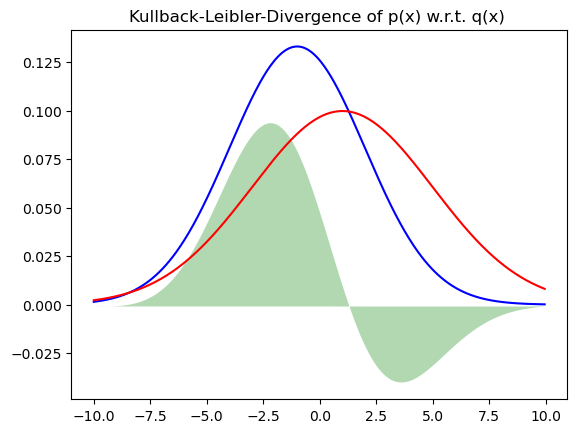
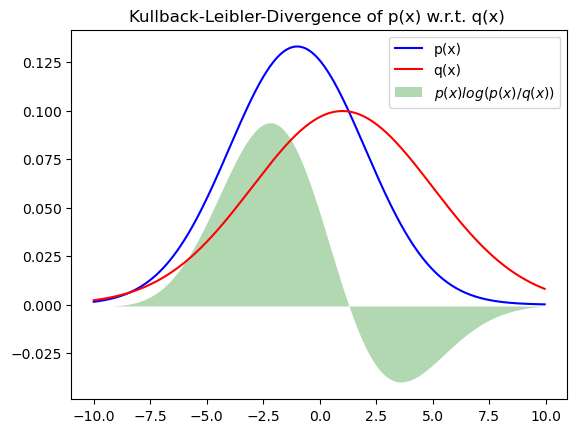
Update documentation

Changed region(s): [[0.6863, 0.1501, 0.9671, 0.2402], [0.7487, 0.0901, 0.8111, 0.1801], [0.6863, 0.0901, 0.7175, 0.1201]]

diff --git a/searchindex.js b/searchindex.js
@@ -1,1 +1,1 @@
-Search.setIndex({docnames:["BayesNetAsia","BayesNetLearningWithPandas","KullbackLeiblerDivergence","ProbabilityMultivariate","ProbabilityUnivariate","Thrombosis","estimateProbability","exampleProbEst","intro","parametricClassification1D"],envversion:{"sphinx.domains.c":2,"sphinx.domains.changeset":1,"sphinx.domains.citation":1,"sphinx.domains.cpp":5,"sphinx.domains.index":1,"sphinx.domains.javascript":2,"sphinx.domains.math":2,"sphinx.domains.python":3,"sphinx.domains.rst":2,"sphinx.domains.std":2,"sphinx.ext.intersphinx":1,sphinx:56},filenames:["BayesNetAsia.ipynb","BayesNetLearningWithPandas.ipynb","KullbackLeiblerDivergence.ipynb","ProbabilityMultivariate.ipynb","ProbabilityUnivariate.ipynb","Thrombosis.ipynb","estimateProbability.ipynb","exampleProbEst.ipynb","intro.md","parametricClassification1D.ipynb"],objects:{},objnames:{},objtypes:{},terms:{"0":[0,1,2,3,4,5,6,7,9],"00":[0,1,6,9],"000":[0,1,9],"0000":[0,9],"00000":0,"000000":[3,7],"00001":0,"000150":3,"0007735364983577491":[],"001":0,"0016687819527767985":1,"00640":[],"0073678034228635576":1,"01":[0,4],"0100":0,"01030":0,"013571":3,"01973086533146106":[],"02":[0,6],"02000":0,"02410":0,"02871":9,"03":[5,9],"0303":0,"0377117572316064":[],"04":[3,8,9],"041664":3,"0437":[],"0455":0,"04581":9,"047465":[],"05":[0,2,5,6,9],"0500":0,"055":0,"0550":0,"055235":3,"06":9,"07":[],"0700":0,"072645":9,"08":8,"09":3,"09278":9,"1":[0,1,2,3,4,5,6,7,9],"10":[0,1,2,3,4,6,7,9],"100":[0,1,3,9],"1000":[0,1],"10000":[0,1],"100000":9,"1000000":5,"10001":1,"1000x1000":[],"100j":6,"101":9,"102":9,"103":9,"1050":9,"1065":9,"10666":9,"11":[3,6,9],"110":6,"113":9,"115028222595494":1,"118":9,"1185":9,"12":[3,4,5,6,9],"120":[6,9],"125":[4,6],"127":9,"1289":1,"13":[6,9],"132":[],"1364291459312235":[],"13970":0,"14":[4,6,9],"140":6,"1456":[],"14595":9,"1480":9,"15":[6,9],"150":5,"1517":1,"15454":9,"1547":[],"15625":4,"157":0,"159":4,"1593911985090197":1,"16":[0,3,6,9],"160":6,"16558":9,"16583242":3,"16665":9,"166667":7,"1697":0,"17":[5,6,9],"170":6,"173":[6,9],"174":9,"17406":9,"17469":9,"175":[6,9],"176":9,"177":9,"178":[6,9],"17936":9,"18":[6,9],"180":6,"181":6,"182":6,"186":6,"1873702504149835":[],"188":6,"19":[1,6,9],"192":6,"19651":9,"1988":0,"198957":1,"19980":1,"1d":3,"1n":6,"2":[0,1,2,3,4,5,6,7,9],"20":[0,6,9],"200":[1,6],"20000":[0,1],"2021":[3,5],"2022":8,"20405":9,"205":6,"2078":[],"2083":[],"209881":3,"21":[3,6,9],"210":6,"210031":3,"21161":9,"2180":[],"219":3,"22":[3,6,9],"224":0,"225050":3,"23":9,"23132":9,"24":9,"2410":[],"242":3,"2468790525":[],"247934":[],"2491":3,"25":[4,6,9],"25000":9,"250000":7,"250044":9,"25335":9,"2545":0,"256":0,"2583":[],"259259":9,"25e":5,"26":9,"2649":[],"26697":9,"2685":1,"2694":1,"27":9,"28":[3,9],"28099":9,"281872":3,"29":9,"29000":9,"295593":3,"296296":9,"298":9,"2d":[3,6,9],"2f":[4,6,9],"2n":6,"3":[0,1,2,3,4,5,6,7,9],"30":[3,4,6,9],"3000":0,"30000":[0,1],"3072":1,"31415":9,"3159":9,"3163":9,"318":9,"32":[5,9],"320":9,"32590":0,"328485003314561":1,"33298":9,"333":7,"333333":7,"3480507":3,"35":[4,9],"35400":0,"3543":1,"356701":1,"3591":1,"36":[0,3,9],"3624":[],"3630":9,"36797":9,"37":9,"37016":9,"3723":1,"38":9,"38898497243":[],"39":9,"391388":[],"3923805391":[],"39350":[],"3958":1,"3964":1,"3979":1,"3d":[3,6],"3f":[4,9],"4":[0,1,2,4,5,6,7,9],"40":[6,9],"40000":0,"405":9,"41":9,"41270":[],"415079":[],"4163":[],"4203":9,"4212649082":6,"42220":[],"42385":9,"4250":[],"43":9,"43080":[],"4360":0,"443609":9,"444444":9,"44612":9,"44920":1,"45":[4,9],"452862":3,"4545":1,"459373":1,"46":9,"4667":1,"4674351":3,"47584":1,"4770":9,"48":9,"480":[],"48070":1,"49":9,"494440511346402":[],"49520":1,"4f":9,"5":[0,1,3,4,5,6,7,9],"50":[0,1,5,6,7,9],"5000":0,"50000":0,"500000":7,"5048":1,"5099":9,"519":1,"5193":1,"52":[5,9],"52416":1,"53":9,"53330":1,"54":6,"540627":1,"54550":1,"5508":1,"56":9,"560":9,"56231":9,"5640":0,"5692":[],"57":6,"57500":[],"5778":[],"5797":9,"58":6,"583":3,"58370":[],"584921":[],"5873":[],"59":9,"595":9,"597607609165015":[],"59999":[],"6":[0,3,4,5,6,7,9],"60":[5,6,9],"6000":0,"60210":1,"60360":1,"60420":1,"6065":[],"608612":[],"609":[],"61":9,"62":9,"6244355861046378":2,"625":9,"62770":1,"62772":1,"63000":9,"6370":9,"63760":[],"64":9,"64090":1,"643299":1,"64526":9,"64570":1,"6460":0,"65":[5,9],"65124":9,"66035":9,"66667":9,"67":[6,9],"67334":9,"68":[6,9],"680":9,"682":9,"6837":9,"6841":9,"68916612484":1,"69":9,"69000":9,"69062":9,"690925":3,"7":[0,4,5,6,7,9],"70":[6,9],"7000":[0,1],"70000":0,"702":9,"704407":3,"71":[6,9],"72":6,"72293":9,"73":3,"73060":1,"73150":1,"734734":3,"735":9,"7377899551333961":[],"74":9,"740":9,"74170":[],"75":[6,7,9],"750":9,"7509918":3,"752066":[],"75900":[],"76":[6,9],"763":1,"77":6,"77017":9,"7717255411247985":1,"778":9,"77884":9,"78":9,"79170":[],"79220":[],"7d":9,"8":[0,1,4,6,7,9],"80":[6,9],"8000":[0,1],"8002":1,"801043":1,"81":9,"81069":9,"819":4,"82":9,"835":9,"840":9,"85":9,"86":[6,9],"87":[6,9],"88625":9,"89":6,"9":[0,6,7,9],"90":6,"9000":[0,1],"90000":[0,1],"906":1,"91":9,"92":9,"923071875160725":1,"93":[6,9],"93000":0,"933":3,"936":1,"93726":9,"9450":0,"947":[],"95":[0,9],"95000":0,"952535":[],"95630":[],"96":9,"960x800":6,"9663492063492063":9,"977":4,"98":[0,6],"9800":0,"9875":9,"99":0,"99000":0,"9936":[],"997":4,"998":1,"9tltm6l520v0stj3qjlc5v9w0000gn":6,"case":[0,2,3,4,5,6,8,9],"class":[0,1,9],"default":0,"do":[0,4,5],"final":3,"float":9,"function":[0,1,2,3,6,9],"gau\u00dfverteilung":6,"import":[0,1,2,3,4,5,6,7,8,9],"int":9,"long":5,"new":1,"return":[0,3,9],"short":[0,3,4,5,6],"true":[0,1,3,4,5,6,9],"var":6,"while":[0,4],A:[0,3,4,5,9],And:[0,1,5,6],As:[0,1,3,4,5],At:0,But:4,By:[1,3,6],For:[1,2,3,4,6,7,9],If:[3,4,5,6,9],In:[0,1,2,3,4,5,6,7,8,9],Is:5,It:[0,3,5,9],Of:9,On:[3,5],One:6,Or:5,Such:4,The:[0,1,2,3,4,5,6,7,8,9],Then:[0,5,6,9],There:[1,5],These:[3,6,8],To:0,_:3,a01:0,ab:2,about:0,abov:[0,1,3,4,5,7,9],absenc:0,absolut:[3,4,5,6],acc:9,accord:[1,3],accumul:5,accuracytrain:9,actual:[0,3,5,9],acycl:0,ad:0,add:[0,7],add_edg:5,add_nod:5,add_scatt:[],add_subplot:3,addarc:0,addit:3,addition:0,addjointtarget:0,adult:6,affect:5,afford:5,after:[1,4,5],after_pyagrum_learn:1,after_pyagrum_learning_with_laplac:1,ag:[5,6],again:[3,9],agevacthromb2:5,agevacthromb:5,agg:9,agrum:0,algorithm:[0,1,8],all:[2,3,4,5,6,7,9],allow:8,almost:[0,5],along:6,alpha:[2,4,6],alreadi:[3,4,5],also:[1,3,4,5,6,7,9],alwai:4,among:[3,5],amount:3,an:[0,2,3,4,6,7,8],anaconda3:9,analysi:9,ani:[3,4,5],annual:9,annualincom:9,annualincomelist:9,anoth:[1,3,4],answer:[3,4,5,7],antialias:[3,6],aposteriori:9,aposteriorimod:9,append:[1,6,9],appli:[0,3,4,6,7,8,9],applic:0,approach:1,approxim:0,apriori:9,ar:[0,1,2,3,4,5,6,7,8,9],arang:[2,4,6],arbitrari:[0,3,9],arc:1,area:[2,4],argmax:9,argmax_:9,argument:[6,7],arrai:[1,3,4,6,9],artif:8,artifici:[3,6,8],asia:[0,1],ask:3,assign:[0,4],associ:[0,4,5],assum:[3,6,9],astrazeneca:3,asymmetr:2,atleast_2d:9,attribut:9,author:8,autodf:9,autokunden:9,avail:[3,6],availablebnext:0,averag:5,ax:[2,3,6],axi:[2,3,4,6],axvlin:9,b:[0,1,2,3,4,5,7],back:3,background:3,backgroundcolor:6,backoffic:7,ball:3,bay:[1,3,5,8],bayesian:[3,5,8],bayesnet:0,becaus:[5,9],been:[0,1,3,4,5,9],befor:[1,5],before_learn:1,begin:[3,4,6],being:3,belief:0,belong:7,below:[0,1,2,3,4,5,6,7,8,9],ben18785:4,bernoulli:9,besonder:5,better:[3,6],between:[0,1,3,4,5,6],bhattacharya:1,bif:[0,1],bifxml:0,binari:4,biontech:3,birth:5,bn2:[0,1],bn3:1,bn4:1,bn:0,bncpt:1,bnlearn:1,bnlearner:1,bnsecond:1,bnx:1,boldsymbol:[3,6],book:9,both:[0,1,3,5,6],bought:9,breath:0,bridg:8,bronchiti:0,build:8,bunch:4,busi:0,bx01:0,c:[0,1,4,5,6,9],c_:9,c_i:9,c_k:9,calcul:[0,1,2,3,4,6,7,9],call:[0,3,4,6,7],can:[0,1,2,3,4,5,6,7,8,9],cancer:[0,1],cannot:5,capabl:[0,1,8],caption:1,car:9,carri:5,categori:9,causal:8,causat:[0,5],cc:3,cccc:[3,6],cdf:[3,4],cdot:[2,3,4,6,9],cebral:5,cell:[0,1,9],central:3,cerebr:5,certain:[0,5,6],certainli:3,chain:[3,8],chanc:0,chemic:9,chest:0,child:6,children:6,claim:8,classif:8,classifi:8,classstat:9,clear:5,clf:9,close:1,cm:[3,6],cmap:[3,6],code:[0,1,9],coeffici:6,coin:4,collect:3,color:[3,4,6,9],column:[1,3,6,7,9],columnwis:6,comb:4,combin:7,come:4,comma:3,common:[3,6],compani:7,compar:[1,4],comparison:5,complet:[0,3,7],complex:9,compon:6,comput:[0,1],computecptfromdf:1,concept:3,conclud:5,concret:[6,8,9],condit:[0,1,4,5,7,8],configur:1,confus:9,confusion_matrix:9,connect:0,consid:[3,4,6,8],consist:6,constitu:9,constitut:[8,9],construct:[0,8],consum:5,contain:[0,3,7,9],content:8,context:[3,5,9],continu:[2,8],contour:6,contrast:[1,4,8],control:5,copi:3,corr:6,correctclassif:9,correl:[0,6],correspond:[3,4,6,8],correspondingli:3,count:[1,6,9],cov:6,covari:[3,6],covid:1,cpt:0,creat:7,cross_val_scor:9,crosstab:[1,6,7],crucial:9,cstride:[3,6],csv:9,cultivar:9,cumul:3,cup:3,current:5,curv:[2,4],custom:9,custon:9,cv:9,d1:3,d2:3,d:[0,1,3,5,6,7,9],d_:2,d_condprob:1,d_count:1,daft:5,dag:[0,1],dash:9,data:[0,3,6,7,8],datadict:7,datafram:[3,6,7],datamatrix:6,datasampl:6,dataset:[5,6,8,9],dd:3,ddot:[3,6],de:6,decreas:[1,4],dedic:0,deduc:3,def:[1,3],defici:5,defin:[2,3,4,6,7,9],definit:6,demonstr:[0,1,4,7,8,9],denomin:3,denot:[3,4,6],densiti:[2,3,6],dentot:4,depend:[0,1,3,4,5],depict:[0,5],deprec:9,deriv:[6,7,9],describ:[0,1,3,4,6,7,9],descript:4,design:[1,5,7],determin:[1,3,4,6,7,9],dev:6,develop:9,deviat:[4,6,9],df1:3,df:1,diagnost:8,diagon:6,dice:[3,4],dictionari:0,die:[4,5],differ:[0,1,2,3,4,9],dim:0,dimenension:9,dimension:[3,6,9],dimensional:6,direct:[0,5],discret:[0,2,3,8,9],discretizedvari:0,discrimin:0,discuss:0,disjoint:3,disk:1,displai:[0,3],dist1:2,dist2:2,distanc:[1,2],distinguish:[0,6],distrib:4,distribut:[0,1,2,3,5,7,8,9],divid:[3,6,9],divis:7,document:8,doe:[0,1,8,9],domain:[0,1],domains:[0,1],don:5,doubl:0,dpi:[5,6],dr:8,draft:[],draw:[3,4],drawn:3,dsl:0,dt:4,due:0,dx:[2,4],dy:3,dyspnoa:1,dyspnoea:0,e01:0,e:[0,1,3,4,6,9],each:[0,1,3,4,5,6,7,9],easi:6,easili:[0,3,9],eb01:[0,1],ec:5,edg:5,edgecolor:6,effect:1,either:[0,3,8],element:[6,9],els:1,employe:7,employess:7,empti:0,end:[3,4,5,6,9],engin:0,enter:0,entir:[4,6],entireti:8,entri:[3,9],enumer:9,env:9,equal:4,equat:3,erf:4,error:4,errorpq:1,errorqp:1,est:6,est_cov:6,est_mean:6,estim:[3,8,9],euro:9,ev:0,evalu:9,even:5,event:[3,4],everi:[1,4],everyth:1,everywher:4,evid:3,exact:0,exactbndist:1,exactli:4,exampl:[0,1,4,6,8,9],exist:[1,5,9],exp:[2,3,4,6,9],expect:[1,5],experi:[3,4,5],expert:[0,1,8],explain:3,express:3,extend:[3,5,8],extrapol:5,f:[3,7],f_x:4,facecolor:6,factor:[0,3],factoris:[3,9],fall:4,fals:[1,6,9],famdata:6,famili:6,famou:0,far:6,fashion:0,featur:[0,9],femal:7,few:9,fiction:1,field:8,fig:[1,2,3,6],figsiz:[1,3,4,6,9],figur:[1,3,4,6,9],file:9,filenam:[],fill:2,fill_between:[4,6],fillwith:0,find:[3,5],finit:[0,4],first:[1,2,3,4,5,6,7,9],fit:9,fix:3,flatten:3,float32:1,folder:6,follow:[0,1,2,3,4,5,6,7,9],fontsiz:6,foral:[3,4,6],form:[3,5],format:[0,1,4,6],former:9,found:9,frac:[2,3,4,6,9],framework:8,frendli:0,frequenc:[6,7],frequent:5,from:[0,2,3,4,5,6,8,9],fundament:8,futurewarn:9,g0:1,g1:1,g:[0,1,2,3,4,6],gauss2d:3,gauss:6,gaussian:[2,3,6,9],gaussiannb:9,gaussion:6,gca:6,gener:[0,3,9],generatecpt:1,generatecsv:1,geq4:7,geq:[5,7],german:5,germani:3,get:[0,1,3,4,5],gibb:0,give:3,given:[0,1,3,4,6,7,9],gnb:[0,1],goal:8,got:[3,6],govern:5,graph:0,graphic:0,greatest:4,green:[2,3],grid:[4,6,9],groupbi:9,grown:9,gt:[0,1],gum:[0,1],h:[3,6,7],ha:[0,1,3,4,5,6,7,9],habe:4,had:5,hand:[3,4,5],have:[0,1,3,5,6,9],he:[0,9],head:1,header:9,height:6,helling:1,help:[0,6],hemorrhag:5,henc:[4,5,9],here:[0,1,3,4,6,8,9],hi:9,hide:[],high:7,higher:[1,5,6],highlight_margin:3,hline:4,hold:3,horizont:4,how:[0,1,2,3,4,5,6,8,9],howev:[1,3,4,5,9],http:[4,6],hypergraph:0,i:[0,1,2,3,4,5,6,9],i_1:[3,6,9],i_2:[3,6],i_3:3,i_4:3,i_:3,i_j:3,i_k:3,i_n:[3,6,9],i_z:3,id:[0,1,9],ident:1,identifi:0,idfromnam:1,ie:0,ii:6,ij:6,iloc:3,imagin:0,impact:5,implement:[0,1,9],impli:5,in1:9,inc:9,incom:[7,9],incomplet:0,increas:[0,1,5],independ:[0,4,5,6,9],index:[3,7,9],index_col:[3,9],indic:9,infer:[3,4,5,8],influenc:[0,3,5],infti:[2,3,4,6],inhabit:5,init_notebook_mod:[],initi:[0,1],inlin:1,input:9,instal:5,instanc:[0,1,6,9],instead:[0,3,7,9],institut:8,int_:[2,3,4],integ:7,integr:[1,3,4,8],intellig:[3,6,8],interest:[3,9],interpret:4,introduc:[3,8],introduct:8,invers:3,inwork:6,io:4,iplot:[],ipykernel_24047:[],ipykernel_24066:6,ipython:0,itali:9,its:[0,4,8],itself:1,j:[3,6,9],jensen:1,jet:6,jj:6,johann:[8,9],join:[0,1],joint:[0,1,6,7,8,9],jointli:[3,6],jointposterior:0,journal:0,jpt:1,junction:0,jupyterbook:8,just:[1,3,4,6,9],k:[3,4,6],keyword:6,kg:6,kl:2,klpq:1,klqp:1,klsing:2,know:[0,3,5],knowledg:[0,1,3,8],known:[0,1,3,5,6,9],knwoledg:8,kullback:1,l:[0,1,7],label:[0,4,6],labelizedvari:0,lai:3,lambda:9,laplac:1,larg:[4,5],larger:4,last:[3,5,6,8],latter:0,lauritzen:0,law:[3,8],lazypropag:0,lbrace:4,ldot:[3,4,6,9],learn:[3,5,6,8],learnedbn:1,learnparamet:1,least:7,left:[2,3,4,6,9],legend:[4,6,9],leibler:1,len:[1,6],leq5:4,leq:4,less:4,level:0,lib:[0,1,9],like:[0,3,4,6],likelihood:[3,4,9],limits_:[2,3,4,6],line:[0,9],linear:6,linestyl:4,linewidth:[3,6],link:0,linspac:3,list:[0,1,9],ll:4,loadbn:[0,1],loc:[3,6],local:0,log2:2,log:2,lot:1,lotto:3,low:[1,7,9],lower:1,lowest:4,ls:[4,9],lt01:0,lung:[0,1],m1:6,m2:6,m:[0,4,6,7,9],m_1:6,m_2:6,m_height:6,m_i:6,m_j:6,m_n:6,m_weight:6,machin:[1,3,6,8],mai:[0,5],makeinfer:0,male:7,mani:[6,9],marginalis:[3,8],margincol:3,margprob:3,marit:6,marker:4,market:7,markovblanket:0,mass:[3,6],mathbb:4,mathbf:[3,6,9],matplotlib:[0,1,2,3,4,5,6,9],matrix:[3,6,9],maucher:8,maximum:4,mayb:5,mbox:[3,4,6],mean:[3,4,6,8,9],measru:6,measur:[1,2,3,4],media:8,medium:7,mehrdimensionale_normalverteilung:6,mention:[4,5],meshgrid:3,method:[0,6,7,9],metric:[1,9],mgrid:6,middl:9,min:4,mio:5,mistak:5,model:[0,3,4,5,8],model_select:9,moderna:3,modul:[4,6,9],month:5,more:[0,4,5,6,7],moreov:[3,5,6,7],morevo:0,most:[3,6,9],motiv:0,ms:6,msg:9,mu1:2,mu2:2,mu:[3,4,6],mu_1:[3,6],mu_2:[3,6],mu_d:3,mu_n:6,much:[2,4],multi:[3,6],multinomi:9,multipl:[4,6],multivari:8,multivariate_norm:3,must:[0,3,4,5,6,9],n1:6,n2:6,n:[0,3,4,6,9],nach:6,naiv:6,naive_bay:9,name:[0,1,9],nbsp:3,ncorr:6,nearli:6,need:[4,5],neg:5,neither:0,net:[1,5],network:[5,8],next:[0,1,6,7],nn:6,no_nam:0,node:[0,1,5],non:[4,5],none:[0,3,5,6,9],nonneg:4,norm:4,normal:[1,4,6,7,9],normal_rv:3,notabl:0,notat:6,note:[3,9],notebook:[0,1,7,9],notin:4,notion:8,now:[0,1,3,5,7],np:[1,2,3,4,6,9],ns22:6,nstandard:4,nstd:6,num:6,number:[3,4,5,6,7,9],numcorrect:9,numer:[0,9],numpi:[2,3,4,6,9],numpoint:6,o3prm:0,o:[4,6],ob:9,observ:[3,5],obtain:[0,3,5,9],occur:[3,6],offlin:[],often:6,ok:1,onc:[0,3,9],one:[0,1,2,3,4,5,6,9],onli:[0,1,2,3,4,5,8,9],opac:[],open:0,oppos:4,opposit:5,opt:9,optim:0,option:[1,5,6],order:[0,1,3,5,6,7],org:6,os:[0,1],other:[0,1,3,4,5,6,9],our:3,out:[0,1,3,5],outcom:4,output:[0,3],over:[0,3,4],overview:8,ovserv:3,p2:5,p:[0,2,3,4,5,6,7,9],p_1:2,p_2:2,p_:3,p_list:4,p_tnv:5,p_twv:5,p_x:[3,4,6],packag:[8,9],pair:[3,4],panda:[3,6,7,8,9],paramet:[0,6,8,9],parameterslearn:1,parametr:9,parent:[0,1,6],particular:[3,4],partionend:5,path:[0,1],patient:[0,1],pd:[3,6,7,9],pdf:[3,4,6],peopl:[3,5],per:[5,6],perform:9,period:5,person:[3,5,6],pgm:5,phase:0,pi:[2,3,4,6,9],pictur:8,pill:5,pio:[],pip:5,placebo:5,platelet:5,playground:9,plot:[1,2,3,4,6,9],plot_param:5,plot_surfac:[3,6],plotli:[],plt:[0,1,2,3,4,6,9],pmf:[3,4],png:5,point:[0,4],pop:1,popul:[3,5],popular:3,posit:0,possibl:[0,3,4,5,6,7],posterior:0,posteriori:[3,9],practic:[6,9],pre:9,precis:[0,4,6,9],pred:9,predict_proba:9,predictionsprob:9,premium:9,presenc:0,present:8,previou:[3,9],previous:0,princip:6,print:[0,1,2,3,4,6,9],prior:3,priori:[3,9],proabil:6,prob:[4,6],probabilist:[0,8],probabilit:3,probabilti:3,probabl:[1,2,5,9],probdist:3,problem:[1,9],process:[1,9],prod:3,prod_:9,produc:0,product:[3,6],prof:8,project:[3,6],propabilitii:9,propabl:[0,1,7],properti:0,propos:0,proval:9,prove:5,provid:[0,1,3,4,5,8,9],purchas:9,px2:4,px5:4,px:[],py:[6,9],pyagrum:8,pylab:[0,1],pyo:[],pyplot:[0,1,2,3,4,6,9],python3:9,python:[0,8,9],q:[2,5],quad:[3,4,6],quantifi:6,quantiti:9,queri:0,question:[5,7],quit:9,r:[0,2,3,4,5,6],rai:0,random:[0,2,6,7,8,9],rang:[1,2,3,6,9],rangevari:0,rare:5,rate:5,ratio:5,rbrace:4,rc:5,re:1,read:[0,9],read_csv:[1,9],read_excel:3,real:4,realiz:9,rearrang:3,reason:[0,5],recal:[3,6],recent:[0,6],red:[3,4,6],refer:[2,3,6],region:9,regular:3,rel:[4,9],relev:1,rememb:0,remov:9,render:5,replac:[1,3,4],repres:[0,1,4,6,7,8,9],requir:[4,9],research:5,reshap:[1,3],respect:[2,3],rest:0,restrict:3,result:[0,3,7,9],retain:3,rho:6,rho_:6,right:[2,3,4,5,6,9],risk:[0,5],roll:[3,4],round:9,row:[3,5,6,7,9],royal:0,rstride:[3,6],rule:[3,8],s01:[0,1],s11:6,s22:6,s:[0,1,4,6,7,9],s_:6,sai:3,said:4,sale:7,same:[0,1,5,6,7,9],sampl:[0,1,4,5,6,9],satisfi:4,save:1,savebn:0,savefig:5,scienc:6,scipi:[3,4],scope:3,second:[1,2,3,4,5,6,9],section:[0,1,6,8,9],see:[1,3],seen:[0,1,3,4],sens:4,sep:9,sequenc:0,seri:0,set:[0,3,4,6,7],set_printopt:[4,6,9],set_titl:2,setevid:0,sex:7,shall:[0,4,7,9],shannon:1,shape:9,she:9,shinyapp:4,should:[1,5,9],show:[0,2,3,4,6,9],showinfer:0,shown:[0,1,3,8,9],showposterior:0,showproba:0,side:[3,4],sidebysid:1,sigma1:2,sigma2:2,sigma:[3,4,6],sigma_:[3,6,9],significantli:3,similar:[1,4,5],similarli:3,simpl:[3,9],sinc:[1,3,4,9],singl:[0,3,8],site:9,size:[4,6],sketch:5,skill:8,sklearn:9,slightli:9,small:[0,1,5,7,9],smaller:4,smoke:0,smoker:0,smoot:1,smooth:1,societi:0,solut:7,some:9,someon:4,space:4,special:4,specif:[3,5],specifi:[0,4,6],spiegelhalt:0,sqrt:[2,3,4,6,9],sr:6,stand:3,standard:[4,6,9],standarddevi:9,start:9,stat:[3,4],state:[0,5],statist:[0,2,5],statu:6,std:[3,9],stem:[4,6],stop:5,str:[4,6,9],strike:5,stronger:6,structur:[0,6],stuttgart:8,style:3,subgroup:5,subject:[6,8],subplot:[2,4],subsect:3,subset:[3,4],success:4,successful:1,suffici:5,sum:[1,2,3,4,6,9],sum_:6,sum_k:9,sumal:3,summar:8,summari:5,sumprob:9,support:0,suppos:[0,5],suppress:9,sure:[0,1],surf:6,suspici:5,system:0,t:[0,1,2,3,4,5,6,9],tabl:[1,3,5,7],tag:[],take:[0,3,4,6],taken:[0,3,4,6],task:9,term:3,test:[0,1,3,5],text:[1,4,6],than:[0,3,4,5,7],thei:[0,1,3,8],them:[0,3],theorem:[3,8,9],therefor:[3,9],thereof:3,theta_:9,thi:[0,1,4,5,6,7,8,9],think:0,third:[4,9],those:3,three:9,thrombosen:5,through:0,time:[4,5,9],titl:[1,4,6,9],too:5,tool:0,topic:8,topolog:1,toss:4,total:[3,6],tozerox:[],traceback:6,train:[1,5],transform:0,transpos:1,tree:0,trial:4,tuberculosi:0,turn:3,twice:3,two:[0,2,3,4,5,6,7],type:[0,3,6,7,9],typeerror:6,typic:3,u:[3,4],uai:0,uncertain:8,uncertainti:[0,8],under:[0,2,4,5],understand:6,unexpect:6,uniqu:6,univari:[2,8],univers:8,unreli:5,unusu:9,updat:8,us:[0,4],useapriorismooth:1,user:[0,5,9],usual:[3,5],util:[0,9],v:[3,4,5,6],vaccin:3,vaccinated20210409:3,vacdata:3,vacin:3,valu:[0,1,3,6,7,9],value_count:1,var_:9,var_height:6,var_nam:[0,1],var_weight:6,varaibl:1,variabl:[1,2,5,6,7,8,9],variablefromnam:1,varianc:6,variou:3,vdot:[3,6],vector:[6,9],vektor:[3,6],venou:5,veri:5,verifi:1,version:[],versu:0,vertic:9,viridi:3,visit:[0,1],visitasia:[0,1],visual:[0,2,3,4,5,6],visualis:[3,4],vline:4,vstack:3,w:[2,3,6],wa:9,wai:[0,6],want:3,warn:9,we:[0,1,3,4,5,6,7,9],week:5,weight:6,well:[5,8],what:[0,1,9],when:[0,4],where:[1,2,3,4,6,9],which:[0,1,3,4,5,6,7,8,9],white:6,whose:[0,1,4,6,9],why:5,wide:9,wiki:6,wikipedia:6,wine:9,winedata:9,winedatafram:9,wise:[3,6],within:4,without:[1,3,5],word:[0,4],work:[6,7],workpar:6,would:[4,5],write:3,written:[0,3],x:[0,1,2,3,4,6,9],x_1:[3,6,9],x_2:[3,6,9],x_:[3,6,9],x_d:3,x_i:[3,4,6,9],x_j:[6,9],x_k:3,x_n:[3,6,9],xlabel:[1,3,4,6,9],xlim:4,xlsx:3,xy:3,y:[3,4,6],y_:3,y_i:3,y_j:3,y_pred:9,y_true:9,ye:0,year:[5,7],yield:4,ylabel:[1,3,4,6,9],ylim:4,you:[0,3],younger:5,your:0,z:[3,6],z_j:3,z_k:3,zeit:5,zenaca:5,zero:5,zip:[4,6,9],zoo:4},titles:["Bayesian Networks with pyAgrum","Learn CPTs of Bayesian Netork","Kullback-Leibler Divergence","Multiple Random Variables","Discrete and Continuous Random Variables","Correlation is not Causality","Estimating Probabilities","Estimation of Probabilities from Datasets","Basic Concepts of Probability Theory for AI and ML","Bayes- and Naive Bayes Classifier"],titleterms:{"function":4,A:1,access:9,accuraci:9,ai:8,appli:1,arc:0,astra:5,basic:8,bay:[0,9],bayesian:[0,1,9],bernoulli:4,binomi:4,blanket:0,bn:1,caus:5,causal:5,classif:9,classifi:9,concept:8,condit:3,continu:[3,4,6],correl:5,cpt:1,creat:0,cross:9,csv:1,cumul:4,data:[1,9],databas:1,dataset:7,demo:4,densiti:4,discret:[4,6],distribut:[4,6],diverg:[1,2],doe:5,estim:[1,6,7],evid:0,exact:1,exampl:3,file:1,from:[1,7],gaussian:4,gener:1,geometr:4,global:1,hard:0,independ:3,infer:[0,9],infinit:4,influenc:1,interact:4,joint:3,kl:1,kullback:2,label:9,learn:[1,9],learner:1,leibler:2,load:[0,1],margin:3,markov:0,mass:4,method:1,ml:8,model:9,multidimension:9,multipl:3,multivari:6,naiv:9,net:0,netork:1,network:[0,1],origin:1,panda:1,paramet:1,phase:9,predict:9,probabl:[0,3,4,6,7,8],pyagrum:[0,1],qualiti:1,random:[1,3,4],rang:4,save:0,scikit:9,section:3,size:1,soft:0,tabl:0,theori:8,thi:3,thrombosi:5,topolog:0,train:9,two:1,uniform:4,univari:6,us:[1,3,9],vaccin:5,valid:9,valu:4,variabl:[0,3,4],whole:0,without:0,zeneca:5}})
+Search.setIndex({docnames:["BayesNetAsia","BayesNetLearningWithPandas","KullbackLeiblerDivergence","ProbabilityMultivariate","ProbabilityUnivariate","Thrombosis","estimateProbability","exampleProbEst","intro","parametricClassification1D"],envversion:{"sphinx.domains.c":2,"sphinx.domains.changeset":1,"sphinx.domains.citation":1,"sphinx.domains.cpp":5,"sphinx.domains.index":1,"sphinx.domains.javascript":2,"sphinx.domains.math":2,"sphinx.domains.python":3,"sphinx.domains.rst":2,"sphinx.domains.std":2,"sphinx.ext.intersphinx":1,sphinx:56},filenames:["BayesNetAsia.ipynb","BayesNetLearningWithPandas.ipynb","KullbackLeiblerDivergence.ipynb","ProbabilityMultivariate.ipynb","ProbabilityUnivariate.ipynb","Thrombosis.ipynb","estimateProbability.ipynb","exampleProbEst.ipynb","intro.md","parametricClassification1D.ipynb"],objects:{},objnames:{},objtypes:{},terms:{"0":[0,1,2,3,4,5,6,7,9],"00":[0,1,6,9],"000":[0,1,9],"0000":[0,9],"00000":0,"000000":[3,7],"00001":0,"000150":3,"0007735364983577491":[],"001":0,"0016687819527767985":1,"00640":[],"0073678034228635576":1,"01":[0,4],"0100":0,"01030":0,"013571":3,"01973086533146106":[],"02":[0,6],"02000":0,"02410":0,"02871":9,"03":[5,9],"0303":0,"0377117572316064":[],"04":[3,8,9],"041664":3,"0437":[],"0455":0,"04581":9,"047465":[],"05":[0,2,5,6,9],"0500":0,"055":0,"0550":0,"055235":3,"06":9,"07":[],"0700":0,"072645":9,"08":8,"09":3,"09278":9,"1":[0,1,2,3,4,5,6,7,9],"10":[0,1,2,3,4,6,7,9],"100":[0,1,3,9],"1000":[0,1],"10000":[0,1],"100000":9,"1000000":5,"10001":1,"1000x1000":[],"100j":6,"101":9,"102":9,"103":9,"1050":9,"1065":9,"10666":9,"11":[3,6,9],"110":6,"113":9,"115028222595494":1,"118":9,"1185":9,"12":[3,4,5,6,9],"120":[6,9],"125":[4,6],"127":9,"1289":1,"13":[6,9],"132":[],"1364291459312235":[],"13970":0,"14":[4,6,9],"140":6,"1456":[],"14595":9,"1480":9,"15":[6,9],"150":5,"1517":1,"15454":9,"1547":[],"15625":4,"157":0,"159":4,"1593911985090197":1,"16":[0,3,6,9],"160":6,"16558":9,"16583242":3,"16665":9,"166667":7,"1697":0,"17":[5,6,9],"170":6,"173":[6,9],"174":9,"17406":9,"17469":9,"175":[6,9],"176":9,"177":9,"178":[6,9],"17936":9,"18":[6,9],"180":6,"181":6,"182":6,"186":6,"1873702504149835":[],"188":6,"19":[1,6,9],"192":6,"19651":9,"1988":0,"198957":1,"19980":1,"1d":3,"1n":6,"2":[0,1,2,3,4,5,6,7,9],"20":[0,6,9],"200":[1,6],"20000":[0,1],"2021":[3,5],"2022":8,"20405":9,"205":6,"2078":[],"2083":[],"209881":3,"21":[3,6,9],"210":6,"210031":3,"21161":9,"2180":[],"219":3,"22":[3,6,9],"224":0,"225050":3,"23":9,"23132":9,"24":9,"2410":[],"242":3,"2468790525":[],"247934":[],"2491":3,"25":[4,6,9],"25000":9,"250000":7,"250044":9,"25335":9,"2545":0,"256":0,"2583":[],"259259":9,"25e":5,"26":9,"2649":[],"26697":9,"2685":1,"2694":1,"27":9,"28":[3,9],"28099":9,"281872":3,"29":9,"29000":9,"295593":3,"296296":9,"298":9,"2d":[3,6,9],"2f":[4,6,9],"2n":6,"3":[0,1,2,3,4,5,6,7,9],"30":[3,4,6,9],"3000":0,"30000":[0,1],"3072":1,"31415":9,"3159":9,"3163":9,"318":9,"32":[5,9],"320":9,"32590":0,"328485003314561":1,"33298":9,"333":7,"333333":7,"3480507":3,"35":[4,9],"35400":0,"3543":1,"356701":1,"3591":1,"36":[0,3,9],"3624":[],"3630":9,"36797":9,"37":9,"37016":9,"3723":1,"38":9,"38898497243":[],"39":9,"391388":[],"3923805391":[],"39350":[],"3958":1,"3964":1,"3979":1,"3d":[3,6],"3f":[4,9],"4":[0,1,2,4,5,6,7,9],"40":[6,9],"40000":0,"405":9,"41":9,"41270":[],"415079":[],"4163":[],"4203":9,"4212649082":6,"42220":[],"42385":9,"4250":[],"43":9,"43080":[],"4360":0,"443609":9,"444444":9,"44612":9,"44920":1,"45":[4,9],"452862":3,"4545":1,"459373":1,"46":9,"4667":1,"4674351":3,"47584":1,"4770":9,"48":9,"480":[],"48070":1,"49":9,"494440511346402":[],"49520":1,"4f":9,"5":[0,1,3,4,5,6,7,9],"50":[0,1,5,6,7,9],"5000":0,"50000":0,"500000":7,"5048":1,"5099":9,"519":1,"5193":1,"52":[5,9],"52416":1,"53":9,"53330":1,"54":6,"540627":1,"54550":1,"5508":1,"56":9,"560":9,"56231":9,"5640":0,"5692":[],"57":6,"57500":[],"5778":[],"5797":9,"58":6,"583":3,"58370":[],"584921":[],"5873":[],"59":9,"595":9,"597607609165015":[],"59999":[],"6":[0,3,4,5,6,7,9],"60":[5,6,9],"6000":0,"60210":1,"60360":1,"60420":1,"6065":[],"608612":[],"609":[],"61":9,"62":9,"6244355861046378":2,"625":9,"62770":1,"62772":1,"63000":9,"6370":9,"63760":[],"64":9,"64090":1,"643299":1,"64526":9,"64570":1,"6460":0,"65":[5,9],"65124":9,"66035":9,"66667":9,"67":[6,9],"67334":9,"68":[6,9],"680":9,"682":9,"6837":9,"6841":9,"68916612484":1,"69":9,"69000":9,"69062":9,"690925":3,"7":[0,4,5,6,7,9],"70":[6,9],"7000":[0,1],"70000":0,"702":9,"704407":3,"71":[6,9],"72":6,"72293":9,"73":3,"73060":1,"73150":1,"734734":3,"735":9,"7377899551333961":[],"74":9,"740":9,"74170":[],"75":[6,7,9],"750":9,"7509918":3,"752066":[],"75900":[],"76":[6,9],"763":1,"77":6,"77017":9,"7717255411247985":1,"778":9,"77884":9,"78":9,"79170":[],"79220":[],"7d":9,"8":[0,1,4,6,7,9],"80":[6,9],"8000":[0,1],"8002":1,"801043":1,"81":9,"81069":9,"819":4,"82":9,"835":9,"840":9,"85":9,"86":[6,9],"87":[6,9],"88625":9,"89":6,"9":[0,6,7,9],"90":6,"9000":[0,1],"90000":[0,1],"906":1,"91":9,"92":9,"923071875160725":1,"93":[6,9],"93000":0,"933":3,"936":1,"93726":9,"9450":0,"947":[],"95":[0,9],"95000":0,"952535":[],"95630":[],"96":9,"960x800":6,"9663492063492063":9,"977":4,"98":[0,6],"9800":0,"9875":9,"99":0,"99000":0,"9936":[],"997":4,"998":1,"9tltm6l520v0stj3qjlc5v9w0000gn":6,"case":[0,2,3,4,5,6,8,9],"class":[0,1,9],"default":0,"do":[0,4,5],"final":3,"float":9,"function":[0,1,2,3,6,9],"gau\u00dfverteilung":6,"import":[0,1,2,3,4,5,6,7,8,9],"int":9,"long":5,"new":1,"return":[0,3,9],"short":[0,3,4,5,6],"true":[0,1,3,4,5,6,9],"var":6,"while":[0,4],A:[0,3,4,5,9],And:[0,1,5,6],As:[0,1,3,4,5],At:0,But:4,By:[1,3,6],For:[1,2,3,4,6,7,9],If:[3,4,5,6,9],In:[0,1,2,3,4,5,6,7,8,9],Is:5,It:[0,3,5,9],Of:9,On:[3,5],One:6,Or:5,Such:4,The:[0,1,2,3,4,5,6,7,8,9],Then:[0,5,6,9],There:[1,5],These:[3,6,8],To:0,_:3,a01:0,ab:2,about:0,abov:[0,1,3,4,5,7,9],absenc:0,absolut:[3,4,5,6],acc:9,accord:[1,3],accumul:5,accuracytrain:9,actual:[0,3,5,9],acycl:0,ad:0,add:[0,7],add_edg:5,add_nod:5,add_scatt:[],add_subplot:3,addarc:0,addit:3,addition:0,addjointtarget:0,adult:6,affect:5,afford:5,after:[1,4,5],after_pyagrum_learn:1,after_pyagrum_learning_with_laplac:1,ag:[5,6],again:[3,9],agevacthromb2:5,agevacthromb:5,agg:9,agrum:0,algorithm:[0,1,8],all:[2,3,4,5,6,7,9],allow:8,almost:[0,5],along:6,alpha:[2,4,6],alreadi:[3,4,5],also:[1,3,4,5,6,7,9],alwai:4,among:[3,5],amount:3,an:[0,2,3,4,6,7,8],anaconda3:9,analysi:9,ani:[3,4,5],annual:9,annualincom:9,annualincomelist:9,anoth:[1,3,4],answer:[3,4,5,7],antialias:[3,6],aposteriori:9,aposteriorimod:9,append:[1,6,9],appli:[0,3,4,6,7,8,9],applic:0,approach:1,approxim:0,apriori:9,ar:[0,1,2,3,4,5,6,7,8,9],arang:[2,4,6],arbitrari:[0,3,9],arc:1,area:[2,4],argmax:9,argmax_:9,argument:[6,7],arrai:[1,3,4,6,9],artif:8,artifici:[3,6,8],asia:[0,1],ask:3,assign:[0,4],associ:[0,4,5],assum:[3,6,9],astrazeneca:3,asymmetr:2,atleast_2d:9,attribut:9,author:8,autodf:9,autokunden:9,avail:[3,6],availablebnext:0,averag:5,ax:[2,3,6],axi:[2,3,4,6],axvlin:9,b:[0,1,2,3,4,5,7],back:3,background:3,backgroundcolor:6,backoffic:7,ball:3,bay:[1,3,5,8],bayesian:[3,5,8],bayesnet:0,becaus:[5,9],been:[0,1,3,4,5,9],befor:[1,5],before_learn:1,begin:[3,4,6],being:3,belief:0,belong:7,below:[0,1,2,3,4,5,6,7,8,9],ben18785:4,bernoulli:9,besonder:5,better:[3,6],between:[0,1,3,4,5,6],bhattacharya:1,bif:[0,1],bifxml:0,binari:4,biontech:3,birth:5,bn2:[0,1],bn3:1,bn4:1,bn:0,bncpt:1,bnlearn:1,bnlearner:1,bnsecond:1,bnx:1,boldsymbol:[3,6],book:9,both:[0,1,3,5,6],bought:9,breath:0,bridg:8,bronchiti:0,build:8,bunch:4,busi:0,bx01:0,c:[0,1,4,5,6,9],c_:9,c_i:9,c_k:9,calcul:[0,1,2,3,4,6,7,9],call:[0,3,4,6,7],can:[0,1,2,3,4,5,6,7,8,9],cancer:[0,1],cannot:5,capabl:[0,1,8],caption:1,car:9,carri:5,categori:9,causal:8,causat:[0,5],cc:3,cccc:[3,6],cdf:[3,4],cdot:[2,3,4,6,9],cebral:5,cell:[0,1,9],central:3,cerebr:5,certain:[0,5,6],certainli:3,chain:[3,8],chanc:0,chemic:9,chest:0,child:6,children:6,claim:8,classif:8,classifi:8,classstat:9,clear:5,clf:9,close:1,cm:[3,6],cmap:[3,6],code:[0,1,9],coeffici:6,coin:4,collect:3,color:[3,4,6,9],column:[1,3,6,7,9],columnwis:6,comb:4,combin:7,come:4,comma:3,common:[3,6],compani:7,compar:[1,4],comparison:5,complet:[0,3,7],complex:9,compon:6,comput:[0,1],computecptfromdf:1,concept:3,conclud:5,concret:[6,8,9],condit:[0,1,4,5,7,8],configur:1,confus:9,confusion_matrix:9,connect:0,consid:[3,4,6,8],consist:6,constitu:9,constitut:[8,9],construct:[0,8],consum:5,contain:[0,3,7,9],content:8,context:[3,5,9],continu:[2,8],contour:6,contrast:[1,4,8],control:5,copi:3,corr:6,correctclassif:9,correl:[0,6],correspond:[3,4,6,8],correspondingli:3,count:[1,6,9],cov:6,covari:[3,6],covid:1,cpt:0,creat:7,cross_val_scor:9,crosstab:[1,6,7],crucial:9,cstride:[3,6],csv:9,cultivar:9,cumul:3,cup:3,current:5,curv:[2,4],custom:9,custon:9,cv:9,d1:3,d2:3,d:[0,1,3,5,6,7,9],d_:2,d_condprob:1,d_count:1,daft:5,dag:[0,1],dash:9,data:[0,3,6,7,8],datadict:7,datafram:[3,6,7],datamatrix:6,datasampl:6,dataset:[5,6,8,9],dd:3,ddot:[3,6],de:6,decreas:[1,4],dedic:0,deduc:3,def:[1,3],defici:5,defin:[2,3,4,6,7,9],definit:6,demonstr:[0,1,4,7,8,9],denomin:3,denot:[3,4,6],densiti:[2,3,6],dentot:4,depend:[0,1,3,4,5],depict:[0,5],deprec:9,deriv:[6,7,9],describ:[0,1,3,4,6,7,9],descript:4,design:[1,5,7],determin:[1,3,4,6,7,9],dev:6,develop:9,deviat:[4,6,9],df1:3,df:1,diagnost:8,diagon:6,dice:[3,4],dictionari:0,die:[4,5],differ:[0,1,2,3,4,9],dim:0,dimenension:9,dimension:[3,6,9],dimensional:6,direct:[0,5],discret:[0,2,3,8,9],discretizedvari:0,discrimin:0,discuss:0,disjoint:3,disk:1,displai:[0,3],dist1:2,dist2:2,distanc:[1,2],distinguish:[0,6],distrib:4,distribut:[0,1,2,3,5,7,8,9],divid:[3,6,9],divis:7,document:8,doe:[0,1,8,9],domain:[0,1],domains:[0,1],don:5,doubl:0,dpi:[5,6],dr:8,draft:[],draw:[3,4],drawn:3,dsl:0,dt:4,due:0,dx:[2,4],dy:3,dyspnoa:1,dyspnoea:0,e01:0,e:[0,1,3,4,6,9],each:[0,1,3,4,5,6,7,9],easi:6,easili:[0,3,9],eb01:[0,1],ec:5,edg:5,edgecolor:6,effect:1,either:[0,3,8],element:[6,9],els:1,employe:7,employess:7,empti:0,end:[3,4,5,6,9],engin:0,enter:0,entir:[4,6],entireti:8,entri:[3,9],enumer:9,env:9,equal:4,equat:3,erf:4,error:4,errorpq:1,errorqp:1,est:6,est_cov:6,est_mean:6,estim:[3,8,9],euro:9,ev:0,evalu:9,even:5,event:[3,4],everi:[1,4],everyth:1,everywher:4,evid:3,exact:0,exactbndist:1,exactli:4,exampl:[0,1,4,6,8,9],exist:[1,5,9],exp:[2,3,4,6,9],expect:[1,5],experi:[3,4,5],expert:[0,1,8],explain:3,express:3,extend:[3,5,8],extrapol:5,f:[3,7],f_x:4,facecolor:6,factor:[0,3],factoris:[3,9],fall:4,fals:[1,6,9],famdata:6,famili:6,famou:0,far:6,fashion:0,featur:[0,9],femal:7,few:9,fiction:1,field:8,fig:[1,2,3,6],figsiz:[1,3,4,6,9],figur:[1,3,4,6,9],file:9,filenam:[],fill:2,fill_between:[4,6],fillwith:0,find:[3,5],finit:[0,4],first:[1,2,3,4,5,6,7,9],fit:9,fix:3,flatten:3,float32:1,folder:6,follow:[0,1,2,3,4,5,6,7,9],fontsiz:6,foral:[3,4,6],form:[3,5],format:[0,1,4,6],former:9,found:9,frac:[2,3,4,6,9],framework:8,frendli:0,frequenc:[6,7],frequent:5,from:[0,2,3,4,5,6,8,9],fundament:8,futurewarn:9,g0:1,g1:1,g:[0,1,2,3,4,6],gauss2d:3,gauss:6,gaussian:[2,3,6,9],gaussiannb:9,gaussion:6,gca:6,gener:[0,3,9],generatecpt:1,generatecsv:1,geq4:7,geq:[5,7],german:5,germani:3,get:[0,1,3,4,5],gibb:0,give:3,given:[0,1,3,4,6,7,9],gnb:[0,1],goal:8,got:[3,6],govern:5,graph:0,graphic:0,greatest:4,green:[2,3],grid:[4,6,9],groupbi:9,grown:9,gt:[0,1],gum:[0,1],h:[3,6,7],ha:[0,1,3,4,5,6,7,9],habe:4,had:5,hand:[3,4,5],have:[0,1,3,5,6,9],he:[0,9],head:1,header:9,height:6,helling:1,help:[0,6],hemorrhag:5,henc:[4,5,9],here:[0,1,3,4,6,8,9],hi:9,hide:[],high:7,higher:[1,5,6],highlight_margin:3,hline:4,hold:3,horizont:4,how:[0,1,2,3,4,5,6,8,9],howev:[1,3,4,5,9],http:[4,6],hypergraph:0,i:[0,1,2,3,4,5,6,9],i_1:[3,6,9],i_2:[3,6],i_3:3,i_4:3,i_:3,i_j:3,i_k:3,i_n:[3,6,9],i_z:3,id:[0,1,9],ident:1,identifi:0,idfromnam:1,ie:0,ii:6,ij:6,iloc:3,imagin:0,impact:5,implement:[0,1,9],impli:5,in1:9,inc:9,incom:[7,9],incomplet:0,increas:[0,1,5],independ:[0,4,5,6,9],index:[3,7,9],index_col:[3,9],indic:9,infer:[3,4,5,8],influenc:[0,3,5],infti:[2,3,4,6],inhabit:5,init_notebook_mod:[],initi:[0,1],inlin:1,input:9,instal:5,instanc:[0,1,6,9],instead:[0,3,7,9],institut:8,int_:[2,3,4],integ:7,integr:[1,3,4,8],intellig:[3,6,8],interest:[3,9],interpret:4,introduc:[3,8],introduct:8,invers:3,inwork:6,io:4,iplot:[],ipykernel_24047:[],ipykernel_24066:6,ipython:0,itali:9,its:[0,4,8],itself:1,j:[3,6,9],jensen:1,jet:6,jj:6,johann:[8,9],join:[0,1],joint:[0,1,6,7,8,9],jointli:[3,6],jointposterior:0,journal:0,jpt:1,junction:0,jupyterbook:8,just:[1,3,4,6,9],k:[3,4,6],keyword:6,kg:6,kl:2,klpq:1,klqp:1,klsing:2,know:[0,3,5],knowledg:[0,1,3,8],known:[0,1,3,5,6,9],knwoledg:8,kullback:1,l:[0,1,7],label:[0,2,4,6],labelizedvari:0,lai:3,lambda:9,laplac:1,larg:[4,5],larger:4,last:[3,5,6,8],latter:0,lauritzen:0,law:[3,8],lazypropag:0,lbrace:4,ldot:[3,4,6,9],learn:[3,5,6,8],learnedbn:1,learnparamet:1,least:7,left:[2,3,4,6,9],legend:[2,4,6,9],leibler:1,len:[1,6],leq5:4,leq:4,less:4,level:0,lib:[0,1,9],like:[0,3,4,6],likelihood:[3,4,9],limits_:[2,3,4,6],line:[0,9],linear:6,linestyl:4,linewidth:[3,6],link:0,linspac:3,list:[0,1,9],ll:4,loadbn:[0,1],loc:[3,6],local:0,log2:2,log:2,lot:1,lotto:3,low:[1,7,9],lower:1,lowest:4,ls:[4,9],lt01:0,lung:[0,1],m1:6,m2:6,m:[0,4,6,7,9],m_1:6,m_2:6,m_height:6,m_i:6,m_j:6,m_n:6,m_weight:6,machin:[1,3,6,8],mai:[0,5],makeinfer:0,male:7,mani:[6,9],marginalis:[3,8],margincol:3,margprob:3,marit:6,marker:4,market:7,markovblanket:0,mass:[3,6],mathbb:4,mathbf:[3,6,9],matplotlib:[0,1,2,3,4,5,6,9],matrix:[3,6,9],maucher:8,maximum:4,mayb:5,mbox:[3,4,6],mean:[3,4,6,8,9],measru:6,measur:[1,2,3,4],media:8,medium:7,mehrdimensionale_normalverteilung:6,mention:[4,5],meshgrid:3,method:[0,6,7,9],metric:[1,9],mgrid:6,middl:9,min:4,mio:5,mistak:5,model:[0,3,4,5,8],model_select:9,moderna:3,modul:[4,6,9],month:5,more:[0,4,5,6,7],moreov:[3,5,6,7],morevo:0,most:[3,6,9],motiv:0,ms:6,msg:9,mu1:2,mu2:2,mu:[3,4,6],mu_1:[3,6],mu_2:[3,6],mu_d:3,mu_n:6,much:[2,4],multi:[3,6],multinomi:9,multipl:[4,6],multivari:8,multivariate_norm:3,must:[0,3,4,5,6,9],n1:6,n2:6,n:[0,3,4,6,9],nach:6,naiv:6,naive_bay:9,name:[0,1,9],nbsp:3,ncorr:6,nearli:6,need:[4,5],neg:5,neither:0,net:[1,5],network:[5,8],next:[0,1,6,7],nn:6,no_nam:0,node:[0,1,5],non:[4,5],none:[0,3,5,6,9],nonneg:4,norm:4,normal:[1,4,6,7,9],normal_rv:3,notabl:0,notat:6,note:[3,9],notebook:[0,1,7,9],notin:4,notion:8,now:[0,1,3,5,7],np:[1,2,3,4,6,9],ns22:6,nstandard:4,nstd:6,num:6,number:[3,4,5,6,7,9],numcorrect:9,numer:[0,9],numpi:[2,3,4,6,9],numpoint:6,o3prm:0,o:[4,6],ob:9,observ:[3,5],obtain:[0,3,5,9],occur:[3,6],offlin:[],often:6,ok:1,onc:[0,3,9],one:[0,1,2,3,4,5,6,9],onli:[0,1,2,3,4,5,8,9],opac:[],open:0,oppos:4,opposit:5,opt:9,optim:0,option:[1,5,6],order:[0,1,3,5,6,7],org:6,os:[0,1],other:[0,1,3,4,5,6,9],our:3,out:[0,1,3,5],outcom:4,output:[0,3],over:[0,3,4],overview:8,ovserv:3,p2:5,p:[0,2,3,4,5,6,7,9],p_1:2,p_2:2,p_:3,p_list:4,p_tnv:5,p_twv:5,p_x:[3,4,6],packag:[8,9],pair:[3,4],panda:[3,6,7,8,9],paramet:[0,6,8,9],parameterslearn:1,parametr:9,parent:[0,1,6],particular:[3,4],partionend:5,path:[0,1],patient:[0,1],pd:[3,6,7,9],pdf:[3,4,6],peopl:[3,5],per:[5,6],perform:9,period:5,person:[3,5,6],pgm:5,phase:0,pi:[2,3,4,6,9],pictur:8,pill:5,pio:[],pip:5,placebo:5,platelet:5,playground:9,plot:[1,2,3,4,6,9],plot_param:5,plot_surfac:[3,6],plotli:[],plt:[0,1,2,3,4,6,9],pmf:[3,4],png:5,point:[0,4],pop:1,popul:[3,5],popular:3,posit:0,possibl:[0,3,4,5,6,7],posterior:0,posteriori:[3,9],practic:[6,9],pre:9,precis:[0,4,6,9],pred:9,predict_proba:9,predictionsprob:9,premium:9,presenc:0,present:8,previou:[3,9],previous:0,princip:6,print:[0,1,2,3,4,6,9],prior:3,priori:[3,9],proabil:6,prob:[4,6],probabilist:[0,8],probabilit:3,probabilti:3,probabl:[1,2,5,9],probdist:3,problem:[1,9],process:[1,9],prod:3,prod_:9,produc:0,product:[3,6],prof:8,project:[3,6],propabilitii:9,propabl:[0,1,7],properti:0,propos:0,proval:9,prove:5,provid:[0,1,3,4,5,8,9],purchas:9,px2:4,px5:4,px:[],py:[6,9],pyagrum:8,pylab:[0,1],pyo:[],pyplot:[0,1,2,3,4,6,9],python3:9,python:[0,8,9],q:[2,5],quad:[3,4,6],quantifi:6,quantiti:9,queri:0,question:[5,7],quit:9,r:[0,2,3,4,5,6],rai:0,random:[0,2,6,7,8,9],rang:[1,2,3,6,9],rangevari:0,rare:5,rate:5,ratio:5,rbrace:4,rc:5,re:1,read:[0,9],read_csv:[1,9],read_excel:3,real:4,realiz:9,rearrang:3,reason:[0,5],recal:[3,6],recent:[0,6],red:[3,4,6],refer:[2,3,6],region:9,regular:3,rel:[4,9],relev:1,rememb:0,remov:9,render:5,replac:[1,3,4],repres:[0,1,4,6,7,8,9],requir:[4,9],research:5,reshap:[1,3],respect:[2,3],rest:0,restrict:3,result:[0,3,7,9],retain:3,rho:6,rho_:6,right:[2,3,4,5,6,9],risk:[0,5],roll:[3,4],round:9,row:[3,5,6,7,9],royal:0,rstride:[3,6],rule:[3,8],s01:[0,1],s11:6,s22:6,s:[0,1,4,6,7,9],s_:6,sai:3,said:4,sale:7,same:[0,1,5,6,7,9],sampl:[0,1,4,5,6,9],satisfi:4,save:1,savebn:0,savefig:5,scienc:6,scipi:[3,4],scope:3,second:[1,2,3,4,5,6,9],section:[0,1,6,8,9],see:[1,3],seen:[0,1,3,4],sens:4,sep:9,sequenc:0,seri:0,set:[0,3,4,6,7],set_printopt:[4,6,9],set_titl:2,setevid:0,sex:7,shall:[0,4,7,9],shannon:1,shape:9,she:9,shinyapp:4,should:[1,5,9],show:[0,2,3,4,6,9],showinfer:0,shown:[0,1,3,8,9],showposterior:0,showproba:0,side:[3,4],sidebysid:1,sigma1:2,sigma2:2,sigma:[3,4,6],sigma_:[3,6,9],significantli:3,similar:[1,4,5],similarli:3,simpl:[3,9],sinc:[1,3,4,9],singl:[0,3,8],site:9,size:[4,6],sketch:5,skill:8,sklearn:9,slightli:9,small:[0,1,5,7,9],smaller:4,smoke:0,smoker:0,smoot:1,smooth:1,societi:0,solut:7,some:9,someon:4,space:4,special:4,specif:[3,5],specifi:[0,4,6],spiegelhalt:0,sqrt:[2,3,4,6,9],sr:6,stand:3,standard:[4,6,9],standarddevi:9,start:9,stat:[3,4],state:[0,5],statist:[0,2,5],statu:6,std:[3,9],stem:[4,6],stop:5,str:[4,6,9],strike:5,stronger:6,structur:[0,6],stuttgart:8,style:3,subgroup:5,subject:[6,8],subplot:[2,4],subsect:3,subset:[3,4],success:4,successful:1,suffici:5,sum:[1,2,3,4,6,9],sum_:6,sum_k:9,sumal:3,summar:8,summari:5,sumprob:9,support:0,suppos:[0,5],suppress:9,sure:[0,1],surf:6,suspici:5,system:0,t:[0,1,2,3,4,5,6,9],tabl:[1,3,5,7],tag:[],take:[0,3,4,6],taken:[0,3,4,6],task:9,term:3,test:[0,1,3,5],text:[1,4,6],than:[0,3,4,5,7],thei:[0,1,3,8],them:[0,3],theorem:[3,8,9],therefor:[3,9],thereof:3,theta_:9,thi:[0,1,4,5,6,7,8,9],think:0,third:[4,9],those:3,three:9,thrombosen:5,through:0,time:[4,5,9],titl:[1,4,6,9],too:5,tool:0,topic:8,topolog:1,toss:4,total:[3,6],tozerox:[],traceback:6,train:[1,5],transform:0,transpos:1,tree:0,trial:4,tuberculosi:0,turn:3,twice:3,two:[0,2,3,4,5,6,7],type:[0,3,6,7,9],typeerror:6,typic:3,u:[3,4],uai:0,uncertain:8,uncertainti:[0,8],under:[0,2,4,5],understand:6,unexpect:6,uniqu:6,univari:[2,8],univers:8,unreli:5,unusu:9,updat:8,us:[0,4],useapriorismooth:1,user:[0,5,9],usual:[3,5],util:[0,9],v:[3,4,5,6],vaccin:3,vaccinated20210409:3,vacdata:3,vacin:3,valu:[0,1,3,6,7,9],value_count:1,var_:9,var_height:6,var_nam:[0,1],var_weight:6,varaibl:1,variabl:[1,2,5,6,7,8,9],variablefromnam:1,varianc:6,variou:3,vdot:[3,6],vector:[6,9],vektor:[3,6],venou:5,veri:5,verifi:1,version:[],versu:0,vertic:9,viridi:3,visit:[0,1],visitasia:[0,1],visual:[0,2,3,4,5,6],visualis:[3,4],vline:4,vstack:3,w:[2,3,6],wa:9,wai:[0,6],want:3,warn:9,we:[0,1,3,4,5,6,7,9],week:5,weight:6,well:[5,8],what:[0,1,9],when:[0,4],where:[1,2,3,4,6,9],which:[0,1,3,4,5,6,7,8,9],white:6,whose:[0,1,4,6,9],why:5,wide:9,wiki:6,wikipedia:6,wine:9,winedata:9,winedatafram:9,wise:[3,6],within:4,without:[1,3,5],word:[0,4],work:[6,7],workpar:6,would:[4,5],write:3,written:[0,3],x:[0,1,2,3,4,6,9],x_1:[3,6,9],x_2:[3,6,9],x_:[3,6,9],x_d:3,x_i:[3,4,6,9],x_j:[6,9],x_k:3,x_n:[3,6,9],xlabel:[1,3,4,6,9],xlim:4,xlsx:3,xy:3,y:[3,4,6],y_:3,y_i:3,y_j:3,y_pred:9,y_true:9,ye:0,year:[5,7],yield:4,ylabel:[1,3,4,6,9],ylim:4,you:[0,3],younger:5,your:0,z:[3,6],z_j:3,z_k:3,zeit:5,zenaca:5,zero:5,zip:[4,6,9],zoo:4},titles:["Bayesian Networks with pyAgrum","Learn CPTs of Bayesian Netork","Kullback-Leibler Divergence","Multiple Random Variables","Discrete and Continuous Random Variables","Correlation is not Causality","Estimating Probabilities","Estimation of Probabilities from Datasets","Basic Concepts of Probability Theory for AI and ML","Bayes- and Naive Bayes Classifier"],titleterms:{"function":4,A:1,access:9,accuraci:9,ai:8,appli:1,arc:0,astra:5,basic:8,bay:[0,9],bayesian:[0,1,9],bernoulli:4,binomi:4,blanket:0,bn:1,caus:5,causal:5,classif:9,classifi:9,concept:8,condit:3,continu:[3,4,6],correl:5,cpt:1,creat:0,cross:9,csv:1,cumul:4,data:[1,9],databas:1,dataset:7,demo:4,densiti:4,discret:[4,6],distribut:[4,6],diverg:[1,2],doe:5,estim:[1,6,7],evid:0,exact:1,exampl:3,file:1,from:[1,7],gaussian:4,gener:1,geometr:4,global:1,hard:0,independ:3,infer:[0,9],infinit:4,influenc:1,interact:4,joint:3,kl:1,kullback:2,label:9,learn:[1,9],learner:1,leibler:2,load:[0,1],margin:3,markov:0,mass:4,method:1,ml:8,model:9,multidimension:9,multipl:3,multivari:6,naiv:9,net:0,netork:1,network:[0,1],origin:1,panda:1,paramet:1,phase:9,predict:9,probabl:[0,3,4,6,7,8],pyagrum:[0,1],qualiti:1,random:[1,3,4],rang:4,save:0,scikit:9,section:3,size:1,soft:0,tabl:0,theori:8,thi:3,thrombosi:5,topolog:0,train:9,two:1,uniform:4,univari:6,us:[1,3,9],vaccin:5,valid:9,valu:4,variabl:[0,3,4],whole:0,without:0,zeneca:5}})

diff --git a/KullbackLeiblerDivergence.html b/KullbackLeiblerDivergence.html
@@ -440,10 +440,11 @@ D_{KL}(P||Q)= \sum\limits_{i}P(i) \cdot \log\left( \frac{P(i)}{Q(i)} \right).
 <div class="cell docutils container">
 <div class="cell_input docutils container">
 <div class="highlight-ipython3 notranslate"><div class="highlight"><pre><span></span><span class="n">fig</span><span class="p">,</span><span class="n">ax</span><span class="o">=</span><span class="n">plt</span><span class="o">.</span><span class="n">subplots</span><span class="p">()</span>
-<span class="n">ax</span><span class="o">.</span><span class="n">plot</span><span class="p">(</span><span class="n">x</span><span class="p">,</span><span class="n">dist1</span><span class="p">,</span><span class="s2">&quot;b&quot;</span><span class="p">)</span>
-<span class="n">ax</span><span class="o">.</span><span class="n">plot</span><span class="p">(</span><span class="n">x</span><span class="p">,</span><span class="n">dist2</span><span class="p">,</span><span class="s2">&quot;r&quot;</span><span class="p">)</span>
-<span class="n">ax</span><span class="o">.</span><span class="n">fill</span><span class="p">(</span><span class="n">x</span><span class="p">,</span><span class="n">klsing</span><span class="p">,</span><span class="s2">&quot;g&quot;</span><span class="p">,</span><span class="n">alpha</span><span class="o">=</span><span class="mf">0.3</span><span class="p">)</span>
+<span class="n">ax</span><span class="o">.</span><span class="n">plot</span><span class="p">(</span><span class="n">x</span><span class="p">,</span><span class="n">dist1</span><span class="p">,</span><span class="s2">&quot;b&quot;</span><span class="p">,</span><span class="n">label</span><span class="o">=</span><span class="s2">&quot;p(x)&quot;</span><span class="p">)</span>
+<span class="n">ax</span><span class="o">.</span><span class="n">plot</span><span class="p">(</span><span class="n">x</span><span class="p">,</span><span class="n">dist2</span><span class="p">,</span><span class="s2">&quot;r&quot;</span><span class="p">,</span><span class="n">label</span><span class="o">=</span><span class="s2">&quot;q(x)&quot;</span><span class="p">)</span>
+<span class="n">ax</span><span class="o">.</span><span class="n">fill</span><span class="p">(</span><span class="n">x</span><span class="p">,</span><span class="n">klsing</span><span class="p">,</span><span class="s2">&quot;g&quot;</span><span class="p">,</span><span class="n">alpha</span><span class="o">=</span><span class="mf">0.3</span><span class="p">,</span><span class="n">label</span><span class="o">=</span><span class="s2">&quot;$p(x)log(p(x)/q(x))$&quot;</span><span class="p">)</span>
 <span class="n">ax</span><span class="o">.</span><span class="n">set_title</span><span class="p">(</span><span class="s2">&quot;Kullback-Leibler-Divergence of p(x) w.r.t. q(x) &quot;</span><span class="p">)</span>
+<span class="n">plt</span><span class="o">.</span><span class="n">legend</span><span class="p">()</span>
 <span class="n">plt</span><span class="o">.</span><span class="n">show</span><span class="p">()</span>
 </pre></div>
 </div>
